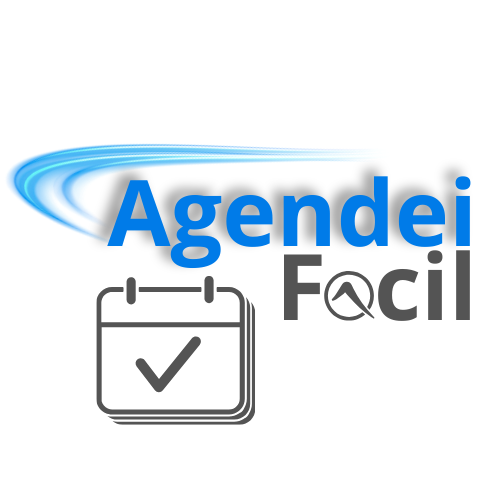
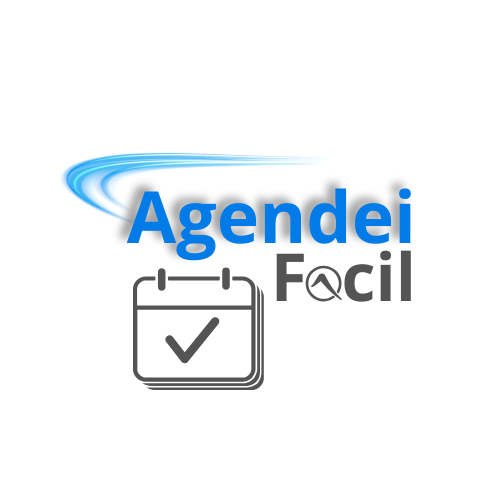
nv ft

Changed region(s): [[0.0, 0.27, 0.96, 0.87]]

diff --git a/public/sw.js b/public/sw.js
@@ -1,10 +1,11 @@
 // Service Worker para controle de cache
-const CACHE_NAME = 'agendei-facil-v2';
+const CACHE_NAME = 'agendei-facil-v3';
 const urlsToCache = [
   '/',
   '/index.html',
   '/manifest.json',
-  '/logoagendei.png',
+  '/novo-icone.png',
+  '/novo-icone-maskable.png',
   '/static/js/bundle.js',
   '/static/css/main.css'
 ];
@@ -49,6 +50,28 @@ self.addEventListener('activate', (event) => {
 self.addEventListener('fetch', (event) => {
   // Ignorar requisições de chrome-extension
   if (event.request.url.startsWith('chrome-extension://')) {
+    return;
+  }
+
+  // Forçar atualização de ícones e manifest
+  if (event.request.url.includes('manifest.json') || 
+      event.request.url.includes('novo-icone') ||
+      event.request.url.includes('logoagendei')) {
+    event.respondWith(
+      fetch(event.request)
+        .then((response) => {
+          // Sempre atualizar ícones e manifest
+          const responseToCache = response.clone();
+          caches.open(CACHE_NAME)
+            .then((cache) => {
+              cache.put(event.request, responseToCache);
+            });
+          return response;
+        })
+        .catch(() => {
+          return caches.match(event.request);
+        })
+    );
     return;
   }
 
@@ -103,8 +126,8 @@ function doBackgroundSync() {
 self.addEventListener('push', (event) => {
   const options = {
     body: event.data ? event.data.text() : 'Novo agendamento disponível!',
-    icon: '/logoagendei.png',
-    badge: '/logoagendei.png',
+    icon: '/novo-icone.png',
+    badge: '/novo-icone.png',
     vibrate: [100, 50, 100],
     data: {
       dateOfArrival: Date.now(),
@@ -114,12 +137,12 @@ self.addEventListener('push', (event) => {
       {
         action: 'explore',
         title: 'Ver agendamento',
-        icon: '/logoagendei.png'
+        icon: '/novo-icone.png'
       },
       {
         action: 'close',
         title: 'Fechar',
-        icon: '/logoagendei.png'
+        icon: '/novo-icone.png'
       }
     ]
   };
